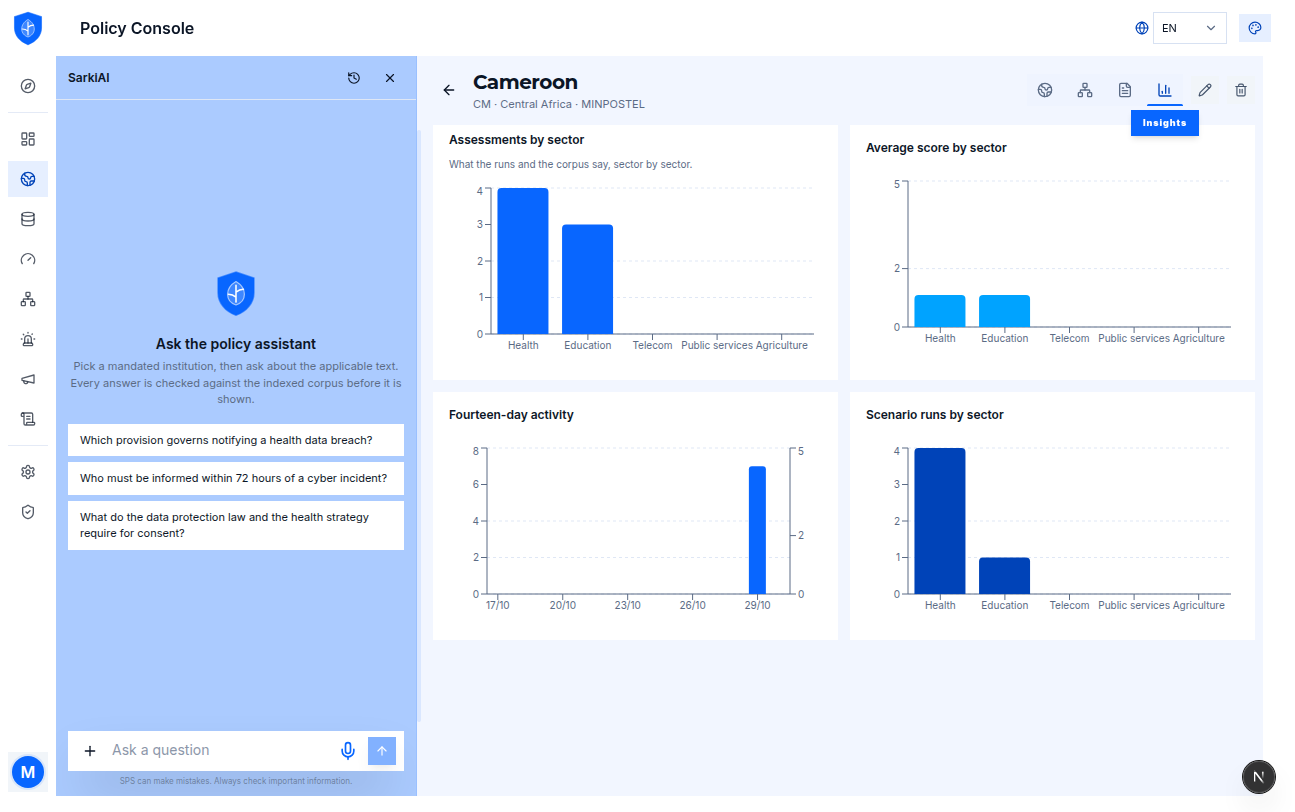
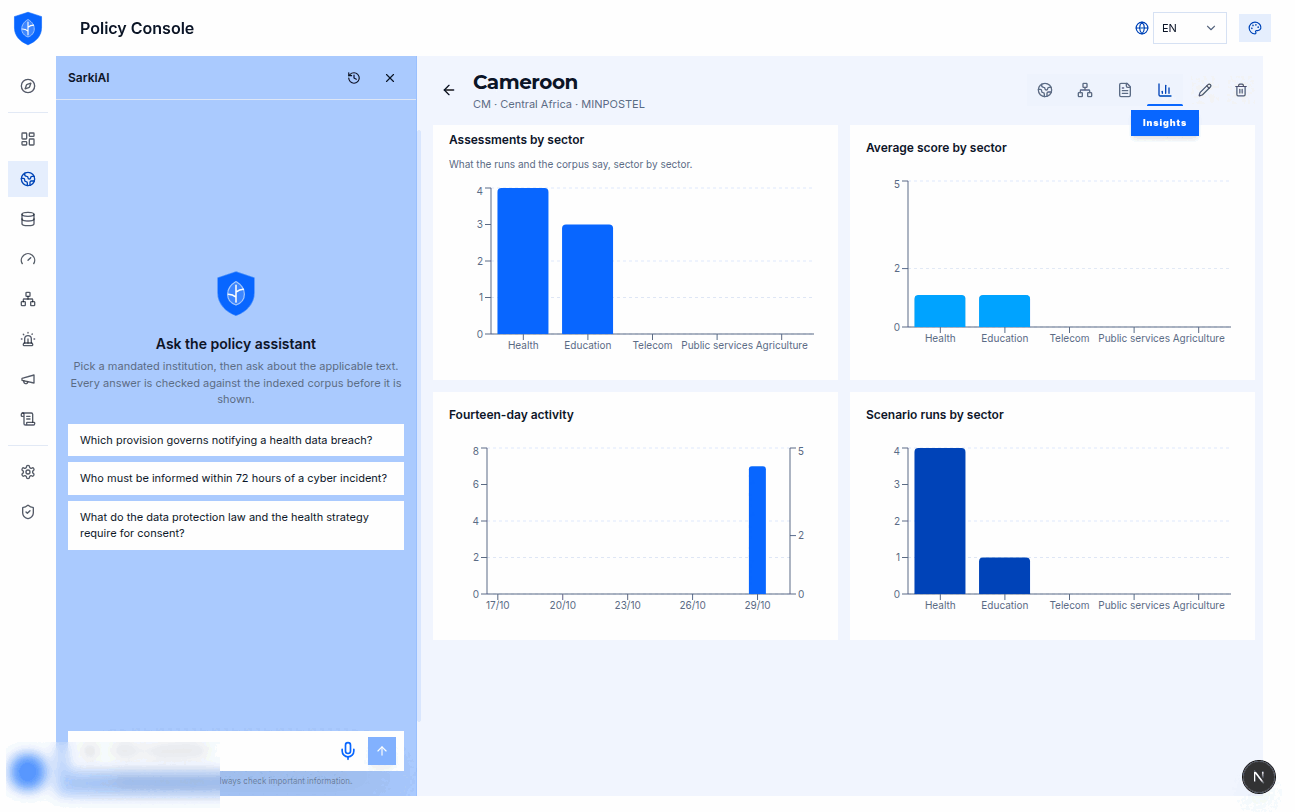
feat(web): country flags in the registry, live-demo README, guide update
The Country column shows the country's flag derived from its ISO 3166-1 code
(regional-indicator pair), with the globe kept for a malformed code. No image
asset, so it also works offline.

The README gains a Live demo section: the hosted console URL, the first-connection
procedure (sign-up, one-time password, TOTP, workspace, API warm-up) and four
captures of the app. Screenshots are palette-optimised with ImageMagick
(2.8 MB -> 0.8 MB) and the operator chip is blurred so no personal account is
readable. docs/DEMO.md points at the same procedure.

The guide documents the registry: search, funnel filter, pagination, row actions,
status semantics and the safeguards around deletion. The first-run runbook gains
a registry check step.

Changed region(s): [[0.0, 0.8929, 0.1853, 0.9852]]

diff --git a/apps/web/src/app/(app)/guide/operations/page.tsx b/apps/web/src/app/(app)/guide/operations/page.tsx
@@ -1,6 +1,6 @@
 'use client'
 
-import { ClipboardList, Clock, Flag, LifeBuoy, ScrollText, Workflow } from 'lucide-react'
+import { ClipboardList, Clock, Flag, Globe2, LifeBuoy, ScrollText, Workflow } from 'lucide-react'
 import {
   GuideBanner,
   GuideChecklist,
@@ -133,6 +133,79 @@ export default function GuideOperationsPage() {
             ? 'La suppression efface le run et ses rapports, jamais la preuve : le raisonnement et les entrées d’audit restent dans le journal, avec leur hash. Un run se rejoue donc encore après sa suppression.'
             : 'Deletion removes the run and its reports, never the evidence: reasoning and audit entries stay in the journal with their hash. A run can still be replayed after it is deleted.'}
         </p>
+      </GuideSection>
+
+      <GuideSection title={fr ? 'Registre des pays et secteurs' : 'Country and sector registry'} icon={Globe2}>
+        <p>
+          {fr
+            ? 'Le référentiel pays/secteurs est la source unique de l’espace de travail : scénarios, évaluations de maturité et filtres du corpus lisent cette liste. Une ligne ouverte mène à la fiche du pays, qui détaille son identité, ses secteurs et ses indicateurs.'
+            : 'The country/sector registry is the single source of the workspace: scenarios, readiness assessments and corpus filters all read this list. An opened row leads to the country page, with its identity, sectors and indicators.'}
+        </p>
+        <GuideTable
+          headers={[fr ? 'Colonne' : 'Column', fr ? 'Ce qu’elle porte' : 'What it holds', fr ? 'Usage' : 'Use']}
+          rows={[
+            {
+              a: fr ? 'Pays' : 'Country',
+              b: fr
+                ? 'Le drapeau du pays, son nom dans la langue de l’interface et son code ISO.'
+                : 'The country flag, its name in the interface language and its ISO code.',
+              c: fr ? 'Ouvre la fiche pays' : 'Opens the country page',
+            },
+            {
+              a: fr ? 'Région · Autorité' : 'Region · Authority',
+              b: fr
+                ? 'Rattachement géographique et autorité de tutelle, masqués sur petit écran.'
+                : 'Geographic grouping and mandated authority, hidden on small screens.',
+              c: fr ? 'Contexte du mandat' : 'Mandate context',
+            },
+            {
+              a: fr ? 'Secteurs' : 'Sectors',
+              b: fr
+                ? 'Nombre de secteurs activés sur le total autorisé par le pays.'
+                : 'Number of enabled sectors over the total the country allows.',
+              c: fr ? 'Périmètre des runs' : 'Scope of the runs',
+            },
+            {
+              a: fr ? 'Statut' : 'Status',
+              b: fr
+                ? 'Actif (proposé dans l’espace de travail) ou prévu (enregistré seulement).'
+                : 'Active (offered in the workspace) or planned (registered only).',
+              c: fr ? 'Visibilité' : 'Visibility',
+            },
+          ]}
+        />
+        <GuideChecklist
+          items={[
+            {
+              label: fr ? 'Recherche insensible aux accents' : 'Accent-insensitive search',
+              detail: fr
+                ? 'Le champ cherche dans le nom anglais et français, le code, la région, l’autorité et le statut.'
+                : 'The field searches the English and French names, the code, the region, the authority and the status.',
+              state: 'ok',
+            },
+            {
+              label: fr ? 'Filtre entonnoir par statut et région' : 'Funnel filter by status and region',
+              detail: fr
+                ? 'Les choix sont un brouillon : appliquer engage le filtre, réinitialiser revient à la liste entière.'
+                : 'Choices are a draft: applying commits the filter, resetting returns to the full list.',
+              state: 'ok',
+            },
+            {
+              label: fr ? 'Pagination et actions de ligne' : 'Pagination and row actions',
+              detail: fr
+                ? 'La taille de page et les chevrons sont en pied de table ; les icônes modifier/supprimer apparaissent sur la ligne (appui long sur mobile).'
+                : 'Page size and chevrons sit in the table footer; edit/delete icons appear on the row (long-press on mobile).',
+              state: 'ok',
+            },
+            {
+              label: fr ? 'Le dernier pays actif est protégé' : 'The last active country is protected',
+              detail: fr
+                ? 'Supprimer le dernier pays actif est refusé, et un pays cité par un run demande d’abord la suppression du run.'
+                : 'Deleting the last active country is refused, and a country referenced by a run requires deleting the run first.',
+              state: 'watch',
+            },
+          ]}
+        />
       </GuideSection>
 
       <GuideSection title={fr ? 'Registre des écarts' : 'Gap register'} icon={ClipboardList}>

diff --git a/apps/web/src/app/(app)/guide/start/page.tsx b/apps/web/src/app/(app)/guide/start/page.tsx
@@ -97,6 +97,13 @@ export default function GuideStartPage() {
               owner: fr ? 'Analyste' : 'Analyst',
             },
             {
+              title: fr ? 'Vérifier le référentiel pays et secteurs' : 'Check the country and sector registry',
+              body: fr
+                ? 'Ouvrez Pays et secteurs : chaque ligne porte le drapeau du pays, son code ISO, sa région, son autorité, ses secteurs actifs et son statut. La recherche ignore casse et accents, l’entonnoir filtre par statut et par région, et la liste se pagine. Un pays « prévu » reste enregistré mais n’est pas proposé dans l’espace de travail.'
+                : 'Open Countries and sectors: every row carries the country flag, its ISO code, region, authority, active sectors and status. Search ignores case and accents, the funnel filters by status and region, and the list is paginated. A “planned” country stays registered but is not offered in the workspace.',
+              owner: fr ? 'Analyste' : 'Analyst',
+            },
+            {
               title: fr ? 'Chauffer l’API avant le premier run' : 'Warm the API before the first run',
               body: fr
                 ? 'Le service gratuit s’endort : le premier appel peut prendre 40 secondes. Ouvrez la vue d’ensemble une fois, attendez le badge fournisseur, puis lancez le scénario.'

diff --git a/apps/web/src/components/country-flag.tsx b/apps/web/src/components/country-flag.tsx
@@ -1,0 +1,39 @@
+import { Globe2 } from 'lucide-react'
+import { cn } from '@sps/ui'
+
+/**
+ * The flag of a country, derived from its ISO 3166-1 alpha-2 code: the two
+ * letters map to the regional-indicator pair of the Unicode flag emoji, so the
+ * registry needs no image asset and works offline. A code that is not two
+ * letters (or a platform without flag glyphs) falls back to the globe.
+ */
+export function flagEmoji(code: string): string | null {
+  const upper = code.trim().toUpperCase()
+  if (!/^[A-Z]{2}$/.test(upper)) return null
+  return String.fromCodePoint(...[...upper].map((letter) => 0x1f1e6 + letter.charCodeAt(0) - 65))
+}
+
+export function CountryFlag({ code, className }: { code: string; className?: string }) {
+  const flag = flagEmoji(code)
+  if (!flag) {
+    return (
+      <span
+        className={cn(
+          'flex h-6 w-6 shrink-0 items-center justify-center rounded-md bg-brand-primary/10 text-brand-primary',
+          className,
+        )}
+      >
+        <Globe2 className="h-3.5 w-3.5" aria-hidden="true" />
+      </span>
+    )
+  }
+  return (
+    <span
+      role="img"
+      aria-label={code.trim().toUpperCase()}
+      className={cn('flex h-6 w-6 shrink-0 items-center justify-center text-[17px] leading-none', className)}
+    >
+      {flag}
+    </span>
+  )
+}

diff --git a/apps/web/src/app/(app)/countries/page.tsx b/apps/web/src/app/(app)/countries/page.tsx
@@ -26,6 +26,7 @@ import { ApiError, countriesApi, type CountryDto } from '@/lib/api'
 import { useI18n } from '@/lib/i18n'
 import { PageIntro } from '@/components/page-intro'
 import { CountryDialog } from '@/components/country-dialog'
+import { CountryFlag } from '@/components/country-flag'
 import { FilterPopover } from '@/components/filter-popover'
 import { ICON_BUTTON_OUTLINE } from '@/components/icon-button-styles'
 import { ConfirmDialog } from '@/components/shared/confirm-dialog'
@@ -333,9 +334,7 @@ export default function CountriesPage() {
                   >
                     <TableCell>
                       <div className="flex items-center gap-2 font-medium text-foreground">
-                        <span className="flex h-6 w-6 shrink-0 items-center justify-center rounded-md bg-brand-primary/10 text-brand-primary">
-                          <Globe2 className="h-3.5 w-3.5" aria-hidden="true" />
-                        </span>
+                        <CountryFlag code={country.code} />
                         <span className="min-w-0">
                           <span className="block truncate text-[12px]">{nameOf(country)}</span>
                           <span className="block font-mono text-[9px] uppercase text-muted-foreground">{country.code}</span>

diff --git a/README.md b/README.md
@@ -39,6 +39,34 @@ over **e-mail or WhatsApp**, with per-channel consent and an audited send.
 - **Primary domain:** healthcare, with cross-domain spillover (data protection, telecom, cybersecurity).
 - **Open by design:** permissive license (Apache-2.0 code, CC BY 4.0 content).
 
+## Live demo
+
+**<https://sps.djotta.com>**: the hosted console, in English and French, light and dark, running in `cloud` mode on the Meta Model API. Nothing is mocked: the corpus, the runs and the audit chain are live.
+
+### First connection
+
+The public deployment has two ways in: create your own operator account, or use the account handed out with the submission.
+
+1. Open <https://sps.djotta.com>. A signed-out visitor lands on `/login`; the console forwards to `/setup` only when the operator store is empty, which is not the case on the demo.
+2. **Own account:** open <https://sps.djotta.com/signup> (public sign-up is enabled on this deployment). Enter a first name, last name and a real address: the API mails a one-time password to it. If the mail cannot be delivered, the account is rolled back, so retry with another address.
+   **Provided account:** sign in directly; the credentials come with the submission, never from this repository.
+3. Replace the one-time password on the next screen (12 characters minimum, letters and digits), then scan the TOTP QR code with an authenticator app and store the ten recovery codes. They are shown once.
+4. Every later sign-in asks for the password **and** the 6-digit TOTP code.
+5. The workspace bar (country, domain, lens) is stored on the profile. For the announced demo, pick **Cameroon**, **health**, **simulation**.
+6. The free API sleeps: the first call after a quiet period can take up to 40 seconds. Open the overview once and wait for the provider badge before starting a run. See [`docs/DEMO.md`](docs/DEMO.md) for the 3-minute recording plan.
+
+### A look at the console
+
+| Countries & sectors registry | Crisis simulation |
+|---|---|
+| ![Countries and sectors registry, with search, funnel filter, pagination and the country flag](docs/screenshots/countries.png) | ![Crisis scenario process graph with mandated agents and a joint report](docs/screenshots/crisis-scenarios.png) |
+
+| AI-readiness assessment | In-app operations handbook |
+|---|---|
+| ![AI-readiness process graph with 13 dimensions scored by agents](docs/screenshots/readiness-agent-workflow.png) | ![Guide: taking-over runbooks, four pages](docs/screenshots/guide.png) |
+
+More screens (audit trail, knowledge graph, notifications, preferences, security) live in [`docs/screenshots/`](docs/screenshots): 1295×812 captures of the hosted app, palette-optimised with ImageMagick.
+
 ## One engine, two lenses
 
 | Lens | Purpose | Basis |

diff --git a/docs/DEMO.md b/docs/DEMO.md
@@ -12,6 +12,11 @@ validation, audit chain), **Demo 25%** (a story with a visible causality).
 
 ## Before recording (T-15 min)
 
+The hosted console is <https://sps.djotta.com>; signing in for the first time
+(account, password change, TOTP, workspace) is described in
+[the README](../README.md#first-connection). The API is addressed below through a
+placeholder: substitute the host of the deployment under test.
+
 ```bash
 API=https://<api-host>
 curl -s $API/health
